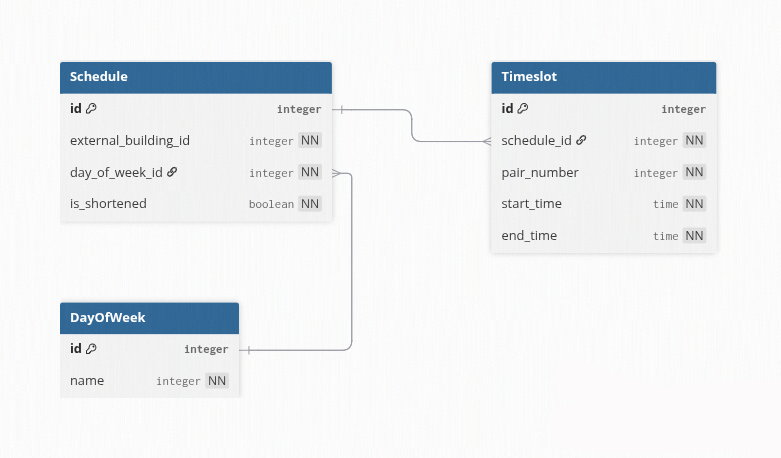
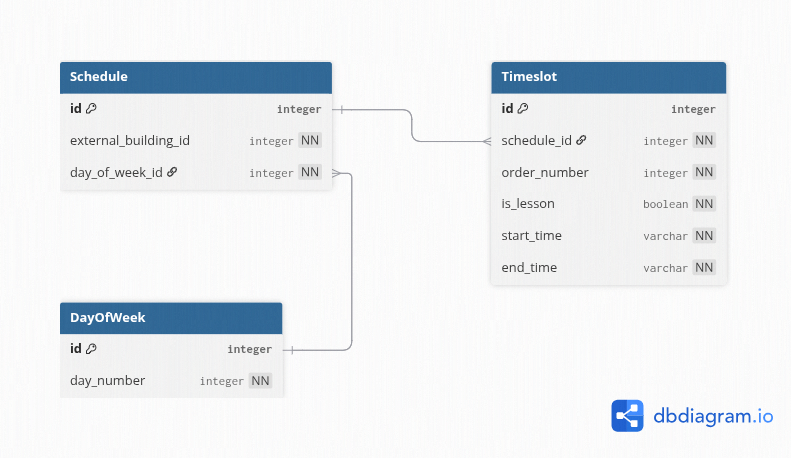
Исправление ошибок 2

diff --git a/S22/models.py b/S22/models.py
@@ -1,4 +1,4 @@
-"""Timeslot Service without fake dependencies"""
+"""Timeslot Service"""
 
 from datetime import time
 
@@ -21,11 +21,10 @@ class BaseModel(Model):
 
 
 class DayOfWeek(BaseModel):
-    """Справочник дней недели."""
+    """Справочник дней недели (внутренний)"""
 
     id = AutoField()
-    name = IntegerField(unique=True, null=False)  # 1=Monday .. 7=Sunday
-    # можно добавить order_index, но name уже порядок
+    name = IntegerField(unique=True, null=False)  # 1=Пн .. 7=Вс
 
     class Meta:
         db_table = "day_of_week"
@@ -33,43 +32,44 @@ class DayOfWeek(BaseModel):
 
 class Schedule(BaseModel):
     """
-    Расписание звонков для конкретной комбинации:
-    - внешний id корпуса (из Campus Service)
-    - внутренний day_of_week_id
-    - тип дня (обычный/сокращённый)
+    Расписание звонков для корпуса и дня недели.
+    Без флага сокращённого дня.
     """
 
     id = AutoField()
     external_building_id = IntegerField(null=False)  # заглушка Campus Service
     day_of_week = ForeignKeyField(DayOfWeek, backref="schedules", null=False)
-    is_shortened = BooleanField(default=False, null=False)
 
     class Meta:
-        indexes = ((("external_building_id", "day_of_week", "is_shortened"), True),)
+        indexes = ((("external_building_id", "day_of_week"), True),)
 
 
 class Timeslot(BaseModel):
-    """Временной слот (пара)"""
+    """
+    Временной слот – может быть парой или переменой.
+    Порядок задаётся order_number.
+    """
 
     id = AutoField()
     schedule = ForeignKeyField(
         Schedule, backref="timeslots", on_delete="CASCADE", null=False
     )
-    pair_number = IntegerField(null=False)
+    order_number = IntegerField(null=False)  # порядковый номер события (1,2,3,...)
+    is_lesson = BooleanField(null=False)  # True = пара, False = перемена
     start_time = TimeField(null=False)
     end_time = TimeField(null=False)
 
     class Meta:
-        indexes = ((("schedule", "pair_number"), True),)
+        indexes = ((("schedule", "order_number"), True),)
 
 
 def verify_building_exists(building_id: int) -> bool:
-    """Заглушка для Campus Service (реальный сервис существует)"""
+    """Заглушка для Campus Service"""
     return 1 <= building_id <= 10
 
 
 def create_tables():
-    """Создаёт таблицы в БД и заполняет дни недели"""
+    """Создаёт таблицы и заполняет дни недели"""
     with DB:
         DB.create_tables([DayOfWeek, Schedule, Timeslot])
         if not DayOfWeek.select().exists():

diff --git a/S22/doc.md b/S22/doc.md
@@ -2,7 +2,7 @@
 
 #### Функционал сервиса
 
-Сервис хранит расписание звонков (начало/конец каждой пары) для разных корпусов и дней недели, включая сокращённые дни.
+Сервис хранит расписание пар и перемен (начало/конец) для разных корпусов и дней недели. Перемены могут быть любой длительности – задаётся временем начала и окончания.
 
 **Зависимости от других сервисов:**
 - `Campus Service` (уровень 4) – предоставляет идентификаторы корпусов. Реализована заглушка.
@@ -12,54 +12,58 @@
 
 #### Правила валидации данных
 
-- Для временного слота: `start_time` < `end_time`; `pair_number` > 0; комбинация (`schedule_id`, `pair_number`) уникальна.
-- Для расписания: комбинация (`external_building_id`, `day_of_week_id`, `is_shortened`) уникальна.
-- `external_building_id` заполняется заглушкой (допустимые значения 1–10).
+- Для временного слота: `start_time` < `end_time`; `order_number` > 0; комбинация (`schedule_id`, `order_number`) уникальна.
+- Для расписания: комбинация (`external_building_id`, `day_of_week_id`) уникальна.
+- `external_building_id` проверяется заглушкой (допустимые значения 1–10).
 - `day_of_week_id` должен существовать в таблице `DayOfWeek`.
 
 #### Создание временного слота
 
 Информация требуемая для создания временного слота
 
-| Параметр     | Обязательность | Тип    | Ограничение                                              | Значение по умолчанию |
-|--------------|----------------|--------|----------------------------------------------------------|-----------------------|
-| schedule_id  | Обязательно    | Целое  | Существующий id расписания                               | —                     |
-| pair_number  | Обязательно    | Целое  | Положительное, уникально для данного schedule_id         | —                     |
-| start_time   | Обязательно    | Время  | Формат HH:MM:SS, меньше end_time                         | —                     |
-| end_time     | Обязательно    | Время  | Формат HH:MM:SS, больше start_time                       | —                     |
+| Параметр      | Обязательность | Тип         | Ограничение                                    | Значение по умолчанию |
+|---------------|----------------|-------------|------------------------------------------------|-----------------------|
+| schedule_id   | Обязательно    | Целое       | Существующий id расписания                     | —                     |
+| order_number  | Обязательно    | Целое       | Положительное, уникально для данного schedule  | —                     |
+| is_lesson     | Обязательно    | Логический  | True – пара, False – перемена                  | —                     |
+| start_time    | Обязательно    | Время       | Формат HH:MM:SS, меньше end_time               | —                     |
+| end_time      | Обязательно    | Время       | Формат HH:MM:SS, больше start_time             | —                     |
 
-Уникальные комбинации параметров: (schedule_id, pair_number)
+Уникальные комбинации параметров: (schedule_id, order_number)
 
 Выходные данные
 
-| Параметр     | Тип    |
-|--------------|--------|
-| id           | Целое  |
-| schedule_id  | Целое  |
-| pair_number  | Целое  |
-| start_time   | Время  |
-| end_time     | Время  |
+| Параметр      | Тип         |
+|---------------|-------------|
+| id            | Целое       |
+| schedule_id   | Целое       |
+| order_number  | Целое       |
+| is_lesson     | Логический  |
+| start_time    | Время       |
+| end_time      | Время       |
 
 #### Изменение временного слота по ID
 
 Информация требуемая для изменения временного слота по ID
 
-| Параметр     | Обязательность | Тип    | Ограничение                                              | Значение по умолчанию |
-|--------------|----------------|--------|----------------------------------------------------------|-----------------------|
-| schedule_id  | Опционально    | Целое  | Существующий id расписания                               | —                     |
-| pair_number  | Опционально    | Целое  | Положительное, уникальность в рамках расписания          | —                     |
-| start_time   | Опционально    | Время  | Меньше end_time                                          | —                     |
-| end_time     | Опционально    | Время  | Больше start_time                                        | —                     |
+| Параметр      | Обязательность | Тип         | Ограничение                                    | Значение по умолчанию |
+|---------------|----------------|-------------|------------------------------------------------|-----------------------|
+| schedule_id   | Опционально    | Целое       | Существующий id расписания                     | —                     |
+| order_number  | Опционально    | Целое       | Положительное, уникальность в рамках расписания| —                     |
+| is_lesson     | Опционально    | Логический  | True – пара, False – перемена                  | —                     |
+| start_time    | Опционально    | Время       | Меньше end_time                                | —                     |
+| end_time      | Опционально    | Время       | Больше start_time                              | —                     |
 
 Выходные данные
 
-| Параметр     | Тип    |
-|--------------|--------|
-| id           | Целое  |
-| schedule_id  | Целое  |
-| pair_number  | Целое  |
-| start_time   | Время  |
-| end_time     | Время  |
+| Параметр      | Тип         |
+|---------------|-------------|
+| id            | Целое       |
+| schedule_id   | Целое       |
+| order_number  | Целое       |
+| is_lesson     | Логический  |
+| start_time    | Время       |
+| end_time      | Время       |
 
 #### Удаление временного слота по ID
 
@@ -69,13 +73,14 @@
 
 Выходные данные
 
-| Параметр     | Тип    |
-|--------------|--------|
-| id           | Целое  |
-| schedule_id  | Целое  |
-| pair_number  | Целое  |
-| start_time   | Время  |
-| end_time     | Время  |
+| Параметр      | Тип         |
+|---------------|-------------|
+| id            | Целое       |
+| schedule_id   | Целое       |
+| order_number  | Целое       |
+| is_lesson     | Логический  |
+| start_time    | Время       |
+| end_time      | Время       |
 
 #### Получение списка временных слотов по заданным параметрам
 
@@ -86,20 +91,21 @@
 | schedule_id             | Целое       | Фильтр по id расписания (опционально)               |
 | external_building_id    | Целое       | Фильтр по корпусу (опционально)                     |
 | day_of_week_id          | Целое       | Фильтр по дню недели (опционально)                  |
-| is_shortened            | Логический  | Фильтр по типу дня (сокращённый/нет) (опционально)  |
-| pair_number             | Целое       | Фильтр по номеру пары (опционально)                 |
+| order_number            | Целое       | Фильтр по порядковому номеру (опционально)          |
+| is_lesson               | Логический  | Фильтр по типу: пара или перемена (опционально)     |
 
 Выходные данные – список временных слотов
 
 Каждый элемент списка:
 
-| Параметр     | Тип    |
-|--------------|--------|
-| id           | Целое  |
-| schedule_id  | Целое  |
-| pair_number  | Целое  |
-| start_time   | Время  |
-| end_time     | Время  |
+| Параметр      | Тип         |
+|---------------|-------------|
+| id            | Целое       |
+| schedule_id   | Целое       |
+| order_number  | Целое       |
+| is_lesson     | Логический  |
+| start_time    | Время       |
+| end_time      | Время       |
 
 ### ER-диаграмма
 
